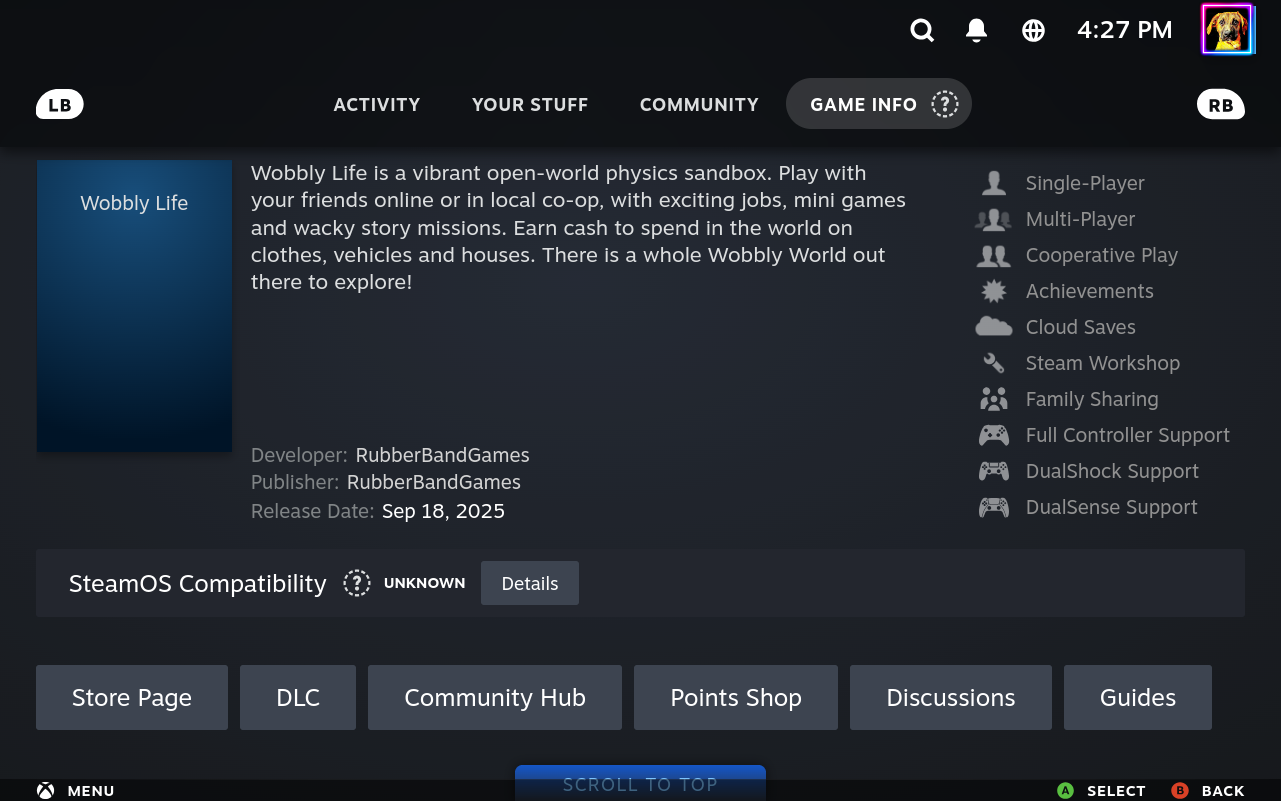
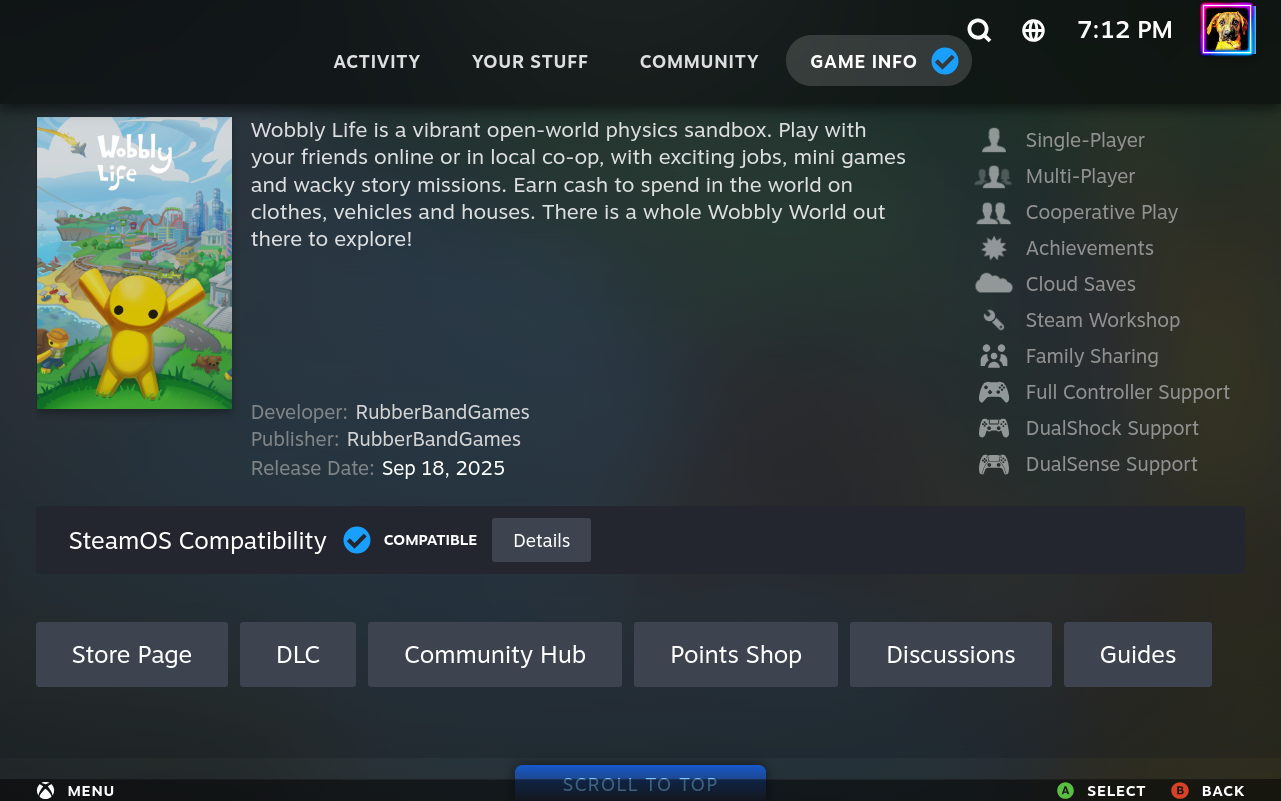
docs(readme): retake Wobbly Life Game Info with artwork and correct compatibility
Recaptured on steamdeck-vm after SteamGridDB artwork and the SteamOS compatibility fix: the custom capsule shows, and the SteamOS Compatibility row reads Compatible instead of Unknown. cacheBuster 202611151912.

diff --git a/assets/README.md b/assets/README.md
@@ -7,8 +7,8 @@ then copied here. Keep the stable filenames so README links remain reproducible.
 - `decky-metadata-qam.png` — current Metadata controls, cropped to the native Quick Access popup.
 - `decky-metadata-editor.png` — the metadata editor for Wobbly Life, a matched non-Steam game, with the **Find a Steam match** section above **Search IGN metadata**.
 - `decky-metadata-shortcut-name.png` — the editor's shortcut-name preview with the **Use Steam name** button.
-- `decky-metadata-gameinfo-top.png` — the Game Info page for Wobbly Life with the HLTB times, the short description, developer, publisher, and release date.
-- `decky-metadata-gameinfo-buttons.png` — the **SteamOS Compatibility** row and the **Store Page**, **DLC**, **Community Hub**, **Points Shop**, **Discussions**, and **Guides** buttons on the same page.
+- `decky-metadata-gameinfo-top.png` — the Game Info page for Wobbly Life with SteamGridDB artwork, the HLTB times, the short description, developer, publisher, and release date.
+- `decky-metadata-gameinfo-buttons.png` — the **SteamOS Compatibility** row (**Compatible**, as Steam shows it on a SteamOS device that is not a Steam Deck) and the **Store Page**, **DLC**, **Community Hub**, **Points Shop**, **Discussions**, and **Guides** buttons on the same page.
 - `decky-metadata-trailers.webp` — animated: a Hades trailer plays in the header above the HLTB times and Play button.
 - `decky-metadata-mini-achievements.png` — native achievement progress on a Steam game, from the verified live Gaming Mode capture.
 - `decky-metadata-activity-news.png` — Steam Activity news for a matched shortcut.

diff --git a/README.md b/README.md
@@ -72,9 +72,9 @@ Older saved timestamps are converted once, keeping their local calendar day.
 Correct an already-wrong date in the editor or import that game's metadata again.
 See [editing games](docs/help/editing-games.md).
 
-![Game Info details for Wobbly Life](assets/decky-metadata-gameinfo-top.png?cacheBuster=20261115)
+![Game Info details for Wobbly Life](assets/decky-metadata-gameinfo-top.png?cacheBuster=202611151912)
 
-![Game Info buttons for Wobbly Life](assets/decky-metadata-gameinfo-buttons.png?cacheBuster=20261115)
+![Game Info buttons and SteamOS compatibility for Wobbly Life](assets/decky-metadata-gameinfo-buttons.png?cacheBuster=202611151912)
 
 ### Compatibility status
 
